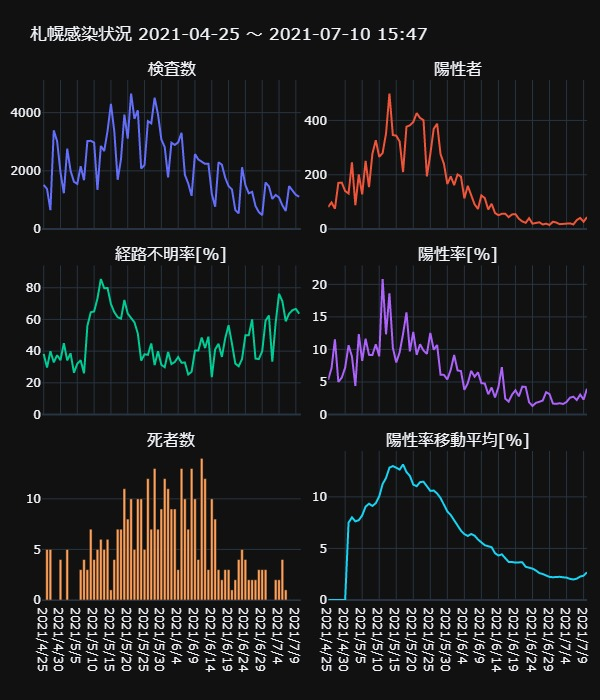
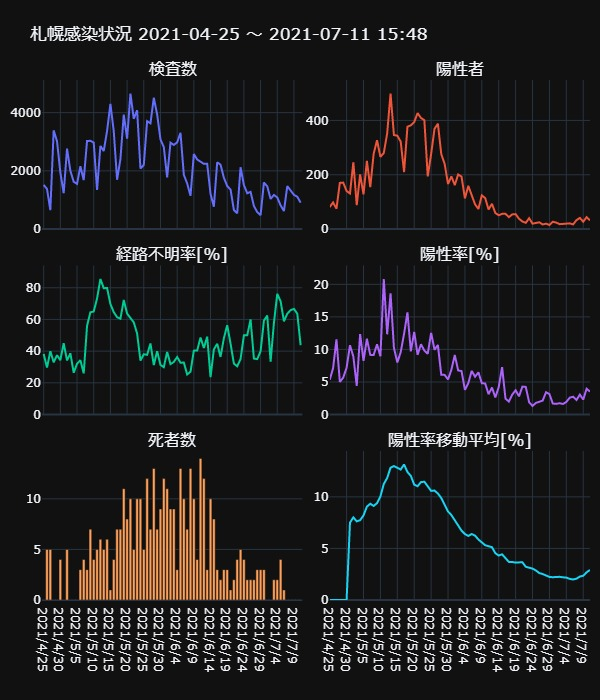
Updated with latest data.

diff --git a/docs/_includes/sapporo.html b/docs/_includes/sapporo.html
@@ -1,1 +1,1 @@
-<div>                            <div id="a2844e41-560d-4760-b545-65ac98e0b4fb" class="plotly-graph-div" style="height:700px; width:600px;"></div>            <script type="text/javascript">                                    window.PLOTLYENV=window.PLOTLYENV || {};                                    if (document.getElementById("a2844e41-560d-4760-b545-65ac98e0b4fb")) {                    Plotly.newPlot(                        "a2844e41-560d-4760-b545-65ac98e0b4fb",                        [{"name": "\u691c\u67fb\u6570", "type": "scatter", "x": ["2021/4/25", "2021/4/26", "2021/4/27", "2021/4/28", "2021/4/29", "2021/4/30", "2021/5/1", "2021/5/2", "2021/5/3", "2021/5/4", "2021/5/5", "2021/5/6", "2021/5/7", "2021/5/8", "2021/5/9", "2021/5/10", "2021/5/11", "2021/5/12", "2021/5/13", "2021/5/14", "2021/5/15", "2021/5/16", "2021/5/17", "2021/5/18", "2021/5/19", "2021/5/20", "2021/5/21", "2021/5/22", "2021/5/23", "2021/5/24", "2021/5/25", "2021/5/26", "2021/5/27", "2021/5/28", "2021/5/29", "2021/5/30", "2021/5/31", "2021/6/1", "2021/6/2", "2021/6/3", "2021/6/4", "2021/6/5", "2021/6/6", "2021/6/7", "2021/6/8", "2021/6/9", "2021/6/10", "2021/6/11", "2021/6/12", "2021/6/13", "2021/6/14", "2021/6/15", "2021/6/16", "2021/6/17", "2021/6/18", "2021/6/19", "2021/6/20", "2021/6/21", "2021/6/22", "2021/6/23", "2021/6/24", "2021/6/25", "2021/6/26", "2021/6/27", "2021/6/28", "2021/6/29", "2021/6/30", "2021/7/1", "2021/7/2", "2021/7/3", "2021/7/4", "2021/7/5", "2021/7/6", "2021/7/7", "2021/7/8", "2021/7/9", "2021/7/10"], "xaxis": "x", "y": [1517, 1377, 649, 3391, 3018, 1946, 1231, 2764, 2001, 1626, 1553, 2157, 1680, 3028, 3031, 2972, 1345, 2856, 2680, 3372, 4302, 3365, 1694, 2402, 3933, 3105, 4656, 3789, 4080, 2080, 2201, 3708, 3632, 4511, 3943, 3079, 2818, 1773, 2967, 2891, 2978, 3307, 1863, 1567, 1142, 2577, 2391, 2307, 2240, 2244, 1208, 768, 2295, 2212, 1763, 1476, 1360, 653, 542, 2124, 1513, 1229, 1278, 793, 583, 478, 1599, 1467, 1035, 1172, 1086, 813, 621, 1476, 1340, 1175, 1110], "yaxis": "y"}, {"name": "\u967d\u6027\u8005", "type": "scatter", "x": ["2021/4/25", "2021/4/26", "2021/4/27", "2021/4/28", "2021/4/29", "2021/4/30", "2021/5/1", "2021/5/2", "2021/5/3", "2021/5/4", "2021/5/5", "2021/5/6", "2021/5/7", "2021/5/8", "2021/5/9", "2021/5/10", "2021/5/11", "2021/5/12", "2021/5/13", "2021/5/14", "2021/5/15", "2021/5/16", "2021/5/17", "2021/5/18", "2021/5/19", "2021/5/20", "2021/5/21", "2021/5/22", "2021/5/23", "2021/5/24", "2021/5/25", "2021/5/26", "2021/5/27", "2021/5/28", "2021/5/29", "2021/5/30", "2021/5/31", "2021/6/1", "2021/6/2", "2021/6/3", "2021/6/4", "2021/6/5", "2021/6/6", "2021/6/7", "2021/6/8", "2021/6/9", "2021/6/10", "2021/6/11", "2021/6/12", "2021/6/13", "2021/6/14", "2021/6/15", "2021/6/16", "2021/6/17", "2021/6/18", "2021/6/19", "2021/6/20", "2021/6/21", "2021/6/22", "2021/6/23", "2021/6/24", "2021/6/25", "2021/6/26", "2021/6/27", "2021/6/28", "2021/6/29", "2021/6/30", "2021/7/1", "2021/7/2", "2021/7/3", "2021/7/4", "2021/7/5", "2021/7/6", "2021/7/7", "2021/7/8", "2021/7/9", "2021/7/10"], "xaxis": "x2", "y": [81, 98, 75, 170, 171, 140, 131, 246, 88, 201, 128, 251, 154, 277, 327, 266, 280, 352, 499, 346, 344, 322, 210, 377, 382, 394, 427, 409, 401, 194, 276, 369, 388, 276, 240, 166, 194, 162, 201, 193, 113, 159, 125, 91, 74, 124, 114, 72, 93, 59, 51, 56, 56, 44, 54, 55, 38, 28, 23, 40, 20, 22, 25, 17, 20, 15, 27, 24, 18, 19, 21, 21, 17, 33, 41, 27, 44], "yaxis": "y2"}, {"name": "\u7d4c\u8def\u4e0d\u660e\u7387[%]", "type": "scatter", "x": ["2021/4/25", "2021/4/26", "2021/4/27", "2021/4/28", "2021/4/29", "2021/4/30", "2021/5/1", "2021/5/2", "2021/5/3", "2021/5/4", "2021/5/5", "2021/5/6", "2021/5/7", "2021/5/8", "2021/5/9", "2021/5/10", "2021/5/11", "2021/5/12", "2021/5/13", "2021/5/14", "2021/5/15", "2021/5/16", "2021/5/17", "2021/5/18", "2021/5/19", "2021/5/20", "2021/5/21", "2021/5/22", "2021/5/23", "2021/5/24", "2021/5/25", "2021/5/26", "2021/5/27", "2021/5/28", "2021/5/29", "2021/5/30", "2021/5/31", "2021/6/1", "2021/6/2", "2021/6/3", "2021/6/4", "2021/6/5", "2021/6/6", "2021/6/7", "2021/6/8", "2021/6/9", "2021/6/10", "2021/6/11", "2021/6/12", "2021/6/13", "2021/6/14", "2021/6/15", "2021/6/16", "2021/6/17", "2021/6/18", "2021/6/19", "2021/6/20", "2021/6/21", "2021/6/22", "2021/6/23", "2021/6/24", "2021/6/25", "2021/6/26", "2021/6/27", "2021/6/28", "2021/6/29", "2021/6/30", "2021/7/1", "2021/7/2", "2021/7/3", "2021/7/4", "2021/7/5", "2021/7/6", "2021/7/7", "2021/7/8", "2021/7/9", "2021/7/10"], "xaxis": "x3", "y": [38.2716049382716, 29.591836734693878, 40.0, 32.94117647058823, 37.42690058479532, 34.285714285714285, 45.038167938931295, 34.146341463414636, 38.63636363636363, 26.368159203980102, 32.03125, 34.26294820717131, 25.97402597402597, 55.95667870036101, 64.52599388379205, 65.0375939849624, 73.21428571428571, 85.51136363636364, 79.75951903807615, 79.76878612716763, 69.76744186046511, 64.59627329192547, 61.42857142857143, 60.47745358090185, 72.25130890052355, 63.70558375634518, 60.88992974238876, 58.19070904645477, 51.12219451371571, 34.02061855670103, 38.04347826086957, 37.669376693766935, 44.84536082474227, 31.15942028985507, 40.0, 31.32530120481928, 29.896907216494846, 39.50617283950617, 31.8407960199005, 33.160621761658035, 36.283185840707965, 32.70440251572327, 32.800000000000004, 25.274725274725274, 27.027027027027028, 40.32258064516129, 40.35087719298245, 48.61111111111111, 41.935483870967744, 49.152542372881356, 23.52941176470588, 41.07142857142857, 44.642857142857146, 36.36363636363637, 48.148148148148145, 56.36363636363636, 44.73684210526316, 32.142857142857146, 30.434782608695656, 35.0, 50.0, 50.0, 60.0, 35.294117647058826, 35.0, 40.0, 59.25925925925925, 62.5, 33.33333333333333, 57.89473684210527, 76.19047619047619, 71.42857142857143, 58.82352941176471, 63.63636363636363, 65.85365853658537, 66.66666666666666, 63.63636363636363], "yaxis": "y3"}, {"name": "\u967d\u6027\u7387[%]", "type": "scatter", "x": ["2021/4/25", "2021/4/26", "2021/4/27", "2021/4/28", "2021/4/29", "2021/4/30", "2021/5/1", "2021/5/2", "2021/5/3", "2021/5/4", "2021/5/5", "2021/5/6", "2021/5/7", "2021/5/8", "2021/5/9", "2021/5/10", "2021/5/11", "2021/5/12", "2021/5/13", "2021/5/14", "2021/5/15", "2021/5/16", "2021/5/17", "2021/5/18", "2021/5/19", "2021/5/20", "2021/5/21", "2021/5/22", "2021/5/23", "2021/5/24", "2021/5/25", "2021/5/26", "2021/5/27", "2021/5/28", "2021/5/29", "2021/5/30", "2021/5/31", "2021/6/1", "2021/6/2", "2021/6/3", "2021/6/4", "2021/6/5", "2021/6/6", "2021/6/7", "2021/6/8", "2021/6/9", "2021/6/10", "2021/6/11", "2021/6/12", "2021/6/13", "2021/6/14", "2021/6/15", "2021/6/16", "2021/6/17", "2021/6/18", "2021/6/19", "2021/6/20", "2021/6/21", "2021/6/22", "2021/6/23", "2021/6/24", "2021/6/25", "2021/6/26", "2021/6/27", "2021/6/28", "2021/6/29", "2021/6/30", "2021/7/1", "2021/7/2", "2021/7/3", "2021/7/4", "2021/7/5", "2021/7/6", "2021/7/7", "2021/7/8", "2021/7/9", "2021/7/10"], "xaxis": "x4", "y": [5.339485827290705, 7.116920842411038, 11.556240369799692, 5.013270421704512, 5.666003976143141, 7.194244604316546, 10.641754670999187, 8.90014471780029, 4.397801099450275, 12.361623616236162, 8.24211204121056, 11.636532220676866, 9.166666666666666, 9.147952443857331, 10.788518640712635, 8.950201884253028, 20.817843866171003, 12.324929971988796, 18.619402985074625, 10.26097271648873, 7.996280799628081, 9.569093610698365, 12.396694214876034, 15.695253955037469, 9.712687515891178, 12.689210950080515, 9.170962199312713, 10.794404856162576, 9.82843137254902, 9.326923076923077, 12.539754656974104, 9.951456310679612, 10.682819383259911, 6.1183772999334956, 6.086735987826528, 5.391360831438779, 6.88431511710433, 9.137055837563452, 6.774519716885743, 6.675890695261155, 3.794492948287441, 4.807983066223163, 6.709608158883522, 5.8072750478621575, 6.47985989492119, 4.811796662786186, 4.767879548306149, 3.1209362808842656, 4.151785714285714, 2.6292335115864525, 4.2218543046357615, 7.291666666666667, 2.440087145969499, 1.9891500904159132, 3.0629608621667614, 3.7262872628726287, 2.794117647058824, 4.287901990811639, 4.243542435424354, 1.8832391713747645, 1.3218770654329148, 1.790073230268511, 1.9561815336463224, 2.1437578814627996, 3.430531732418525, 3.1380753138075312, 1.6885553470919326, 1.6359918200409, 1.7391304347826086, 1.621160409556314, 1.9337016574585635, 2.5830258302583027, 2.737520128824477, 2.2357723577235773, 3.0597014925373136, 2.297872340425532, 3.963963963963964], "yaxis": "y4"}, {"name": "\u6b7b\u8005\u6570", "type": "bar", "x": ["2021/4/25", "2021/4/26", "2021/4/27", "2021/4/28", "2021/4/29", "2021/4/30", "2021/5/1", "2021/5/2", "2021/5/3", "2021/5/4", "2021/5/5", "2021/5/6", "2021/5/7", "2021/5/8", "2021/5/9", "2021/5/10", "2021/5/11", "2021/5/12", "2021/5/13", "2021/5/14", "2021/5/15", "2021/5/16", "2021/5/17", "2021/5/18", "2021/5/19", "2021/5/20", "2021/5/21", "2021/5/22", "2021/5/23", "2021/5/24", "2021/5/25", "2021/5/26", "2021/5/27", "2021/5/28", "2021/5/29", "2021/5/30", "2021/5/31", "2021/6/1", "2021/6/2", "2021/6/3", "2021/6/4", "2021/6/5", "2021/6/6", "2021/6/7", "2021/6/8", "2021/6/9", "2021/6/10", "2021/6/11", "2021/6/12", "2021/6/13", "2021/6/14", "2021/6/15", "2021/6/16", "2021/6/17", "2021/6/18", "2021/6/19", "2021/6/20", "2021/6/21", "2021/6/22", "2021/6/23", "2021/6/24", "2021/6/25", "2021/6/26", "2021/6/27", "2021/6/28", "2021/6/29", "2021/6/30", "2021/7/1", "2021/7/2", "2021/7/3", "2021/7/4", "2021/7/5", "2021/7/6", "2021/7/7", "2021/7/8", "2021/7/9", "2021/7/10"], "xaxis": "x5", "y": [0, 5, 5, 0, 0, 4, 0, 5, 0, 0, 0, 3, 4, 3, 7, 4, 5, 6, 5, 6, 1, 4, 7, 7, 11, 8, 10, 5, 10, 10, 5, 12, 7, 13, 7, 9, 12, 11, 9, 9, 3, 13, 10, 7, 13, 10, 4, 14, 12, 3, 10, 8, 3, 2, 3, 3, 1, 2, 4, 5, 4, 2, 2, 2, 3, 3, 3, 0, 0, 2, 2, 4, 1, 0, 0, 0, 0], "yaxis": "y5"}, {"name": "\u967d\u6027\u7387\u79fb\u52d5\u5e73\u5747[%]", "type": "scatter", "x": ["2021/4/25", "2021/4/26", "2021/4/27", "2021/4/28", "2021/4/29", "2021/4/30", "2021/5/1", "2021/5/2", "2021/5/3", "2021/5/4", "2021/5/5", "2021/5/6", "2021/5/7", "2021/5/8", "2021/5/9", "2021/5/10", "2021/5/11", "2021/5/12", "2021/5/13", "2021/5/14", "2021/5/15", "2021/5/16", "2021/5/17", "2021/5/18", "2021/5/19", "2021/5/20", "2021/5/21", "2021/5/22", "2021/5/23", "2021/5/24", "2021/5/25", "2021/5/26", "2021/5/27", "2021/5/28", "2021/5/29", "2021/5/30", "2021/5/31", "2021/6/1", "2021/6/2", "2021/6/3", "2021/6/4", "2021/6/5", "2021/6/6", "2021/6/7", "2021/6/8", "2021/6/9", "2021/6/10", "2021/6/11", "2021/6/12", "2021/6/13", "2021/6/14", "2021/6/15", "2021/6/16", "2021/6/17", "2021/6/18", "2021/6/19", "2021/6/20", "2021/6/21", "2021/6/22", "2021/6/23", "2021/6/24", "2021/6/25", "2021/6/26", "2021/6/27", "2021/6/28", "2021/6/29", "2021/6/30", "2021/7/1", "2021/7/2", "2021/7/3", "2021/7/4", "2021/7/5", "2021/7/6", "2021/7/7", "2021/7/8", "2021/7/9", "2021/7/10"], "xaxis": "x6", "y": [0.0, 0.0, 0.0, 0.0, 0.0, 0.0, 7.503988673237832, 8.012654229024914, 7.624208551459091, 7.739263300950015, 8.20052638945088, 9.053458995812841, 9.335233576148571, 9.12183325798545, 9.391600961258641, 10.041943930516178, 11.249975394792585, 11.833235099189475, 12.830788065532012, 12.987117501220878, 12.8225929806167, 12.648389404900376, 13.140745452132233, 12.408946893398872, 12.035769399670638, 11.188599108957195, 11.032883320789193, 11.432615328865548, 11.469663580558498, 11.03112484656522, 10.580339232556168, 10.614449060383087, 10.32782169369443, 9.891738136640255, 9.219214012592248, 8.585346792433644, 8.236402798173822, 7.750302966829444, 7.296454882001749, 6.724036498001926, 6.392053019195346, 6.209374030394867, 6.397695077172687, 6.24383221013809, 5.864232789760624, 5.583843782032115, 5.311270761038544, 5.215048379980947, 5.12130590113274, 4.53839523723316, 4.311906559629389, 4.4278789555930285, 4.0890633103335015, 3.6921019592063242, 3.683819756532395, 3.6230342634733828, 3.646589139969436, 3.6560245237088473, 3.220578204959945, 3.141028494303555, 3.045703776448841, 2.863862686177662, 2.6109904391453327, 2.5180819012030433, 2.395600435718313, 2.237676561201624, 2.2098645863040765, 2.254738122676646, 2.247460580464374, 2.1996004198800874, 2.169592387879482, 2.0485201161423072, 1.991297946859014, 2.0694718055206773, 2.2728589015915936, 2.352679173826297, 2.687365395884533], "yaxis": "y6"}],                        {"annotations": [{"font": {"size": 16}, "showarrow": false, "text": "\u691c\u67fb\u6570", "x": 0.2375, "xanchor": "center", "xref": "paper", "y": 1.0, "yanchor": "bottom", "yref": "paper"}, {"font": {"size": 16}, "showarrow": false, "text": "\u967d\u6027\u8005", "x": 0.7625, "xanchor": "center", "xref": "paper", "y": 1.0, "yanchor": "bottom", "yref": "paper"}, {"font": {"size": 16}, "showarrow": false, "text": "\u7d4c\u8def\u4e0d\u660e\u7387[%]", "x": 0.2375, "xanchor": "center", "xref": "paper", "y": 0.6433333333333333, "yanchor": "bottom", "yref": "paper"}, {"font": {"size": 16}, "showarrow": false, "text": "\u967d\u6027\u7387[%]", "x": 0.7625, "xanchor": "center", "xref": "paper", "y": 0.6433333333333333, "yanchor": "bottom", "yref": "paper"}, {"font": {"size": 16}, "showarrow": false, "text": "\u6b7b\u8005\u6570", "x": 0.2375, "xanchor": "center", "xref": "paper", "y": 0.2866666666666667, "yanchor": "bottom", "yref": "paper"}, {"font": {"size": 16}, "showarrow": false, "text": "\u967d\u6027\u7387\u79fb\u52d5\u5e73\u5747[%]", "x": 0.7625, "xanchor": "center", "xref": "paper", "y": 0.2866666666666667, "yanchor": "bottom", "yref": "paper"}], "height": 700, "margin": {"b": 100, "l": 10, "r": 10, "t": 80}, "showlegend": false, "template": {"data": {"bar": [{"error_x": {"color": "#f2f5fa"}, "error_y": {"color": "#f2f5fa"}, "marker": {"line": {"color": "rgb(17,17,17)", "width": 0.5}}, "type": "bar"}], "barpolar": [{"marker": {"line": {"color": "rgb(17,17,17)", "width": 0.5}}, "type": "barpolar"}], "carpet": [{"aaxis": {"endlinecolor": "#A2B1C6", "gridcolor": "#506784", "linecolor": "#506784", "minorgridcolor": "#506784", "startlinecolor": "#A2B1C6"}, "baxis": {"endlinecolor": "#A2B1C6", "gridcolor": "#506784", "linecolor": "#506784", "minorgridcolor": "#506784", "startlinecolor": "#A2B1C6"}, "type": "carpet"}], "choropleth": [{"colorbar": {"outlinewidth": 0, "ticks": ""}, "type": "choropleth"}], "contour": [{"colorbar": {"outlinewidth": 0, "ticks": ""}, "colorscale": [[0.0, "#0d0887"], [0.1111111111111111, "#46039f"], [0.2222222222222222, "#7201a8"], [0.3333333333333333, "#9c179e"], [0.4444444444444444, "#bd3786"], [0.5555555555555556, "#d8576b"], [0.6666666666666666, "#ed7953"], [0.7777777777777778, "#fb9f3a"], [0.8888888888888888, "#fdca26"], [1.0, "#f0f921"]], "type": "contour"}], "contourcarpet": [{"colorbar": {"outlinewidth": 0, "ticks": ""}, "type": "contourcarpet"}], "heatmap": [{"colorbar": {"outlinewidth": 0, "ticks": ""}, "colorscale": [[0.0, "#0d0887"], [0.1111111111111111, "#46039f"], [0.2222222222222222, "#7201a8"], [0.3333333333333333, "#9c179e"], [0.4444444444444444, "#bd3786"], [0.5555555555555556, "#d8576b"], [0.6666666666666666, "#ed7953"], [0.7777777777777778, "#fb9f3a"], [0.8888888888888888, "#fdca26"], [1.0, "#f0f921"]], "type": "heatmap"}], "heatmapgl": [{"colorbar": {"outlinewidth": 0, "ticks": ""}, "colorscale": [[0.0, "#0d0887"], [0.1111111111111111, "#46039f"], [0.2222222222222222, "#7201a8"], [0.3333333333333333, "#9c179e"], [0.4444444444444444, "#bd3786"], [0.5555555555555556, "#d8576b"], [0.6666666666666666, "#ed7953"], [0.7777777777777778, "#fb9f3a"], [0.8888888888888888, "#fdca26"], [1.0, "#f0f921"]], "type": "heatmapgl"}], "histogram": [{"marker": {"colorbar": {"outlinewidth": 0, "ticks": ""}}, "type": "histogram"}], "histogram2d": [{"colorbar": {"outlinewidth": 0, "ticks": ""}, "colorscale": [[0.0, "#0d0887"], [0.1111111111111111, "#46039f"], [0.2222222222222222, "#7201a8"], [0.3333333333333333, "#9c179e"], [0.4444444444444444, "#bd3786"], [0.5555555555555556, "#d8576b"], [0.6666666666666666, "#ed7953"], [0.7777777777777778, "#fb9f3a"], [0.8888888888888888, "#fdca26"], [1.0, "#f0f921"]], "type": "histogram2d"}], "histogram2dcontour": [{"colorbar": {"outlinewidth": 0, "ticks": ""}, "colorscale": [[0.0, "#0d0887"], [0.1111111111111111, "#46039f"], [0.2222222222222222, "#7201a8"], [0.3333333333333333, "#9c179e"], [0.4444444444444444, "#bd3786"], [0.5555555555555556, "#d8576b"], [0.6666666666666666, "#ed7953"], [0.7777777777777778, "#fb9f3a"], [0.8888888888888888, "#fdca26"], [1.0, "#f0f921"]], "type": "histogram2dcontour"}], "mesh3d": [{"colorbar": {"outlinewidth": 0, "ticks": ""}, "type": "mesh3d"}], "parcoords": [{"line": {"colorbar": {"outlinewidth": 0, "ticks": ""}}, "type": "parcoords"}], "pie": [{"automargin": true, "type": "pie"}], "scatter": [{"marker": {"line": {"color": "#283442"}}, "type": "scatter"}], "scatter3d": [{"line": {"colorbar": {"outlinewidth": 0, "ticks": ""}}, "marker": {"colorbar": {"outlinewidth": 0, "ticks": ""}}, "type": "scatter3d"}], "scattercarpet": [{"marker": {"colorbar": {"outlinewidth": 0, "ticks": ""}}, "type": "scattercarpet"}], "scattergeo": [{"marker": {"colorbar": {"outlinewidth": 0, "ticks": ""}}, "type": "scattergeo"}], "scattergl": [{"marker": {"line": {"color": "#283442"}}, "type": "scattergl"}], "scattermapbox": [{"marker": {"colorbar": {"outlinewidth": 0, "ticks": ""}}, "type": "scattermapbox"}], "scatterpolar": [{"marker": {"colorbar": {"outlinewidth": 0, "ticks": ""}}, "type": "scatterpolar"}], "scatterpolargl": [{"marker": {"colorbar": {"outlinewidth": 0, "ticks": ""}}, "type": "scatterpolargl"}], "scatterternary": [{"marker": {"colorbar": {"outlinewidth": 0, "ticks": ""}}, "type": "scatterternary"}], "surface": [{"colorbar": {"outlinewidth": 0, "ticks": ""}, "colorscale": [[0.0, "#0d0887"], [0.1111111111111111, "#46039f"], [0.2222222222222222, "#7201a8"], [0.3333333333333333, "#9c179e"], [0.4444444444444444, "#bd3786"], [0.5555555555555556, "#d8576b"], [0.6666666666666666, "#ed7953"], [0.7777777777777778, "#fb9f3a"], [0.8888888888888888, "#fdca26"], [1.0, "#f0f921"]], "type": "surface"}], "table": [{"cells": {"fill": {"color": "#506784"}, "line": {"color": "rgb(17,17,17)"}}, "header": {"fill": {"color": "#2a3f5f"}, "line": {"color": "rgb(17,17,17)"}}, "type": "table"}]}, "layout": {"annotationdefaults": {"arrowcolor": "#f2f5fa", "arrowhead": 0, "arrowwidth": 1}, "autotypenumbers": "strict", "coloraxis": {"colorbar": {"outlinewidth": 0, "ticks": ""}}, "colorscale": {"diverging": [[0, "#8e0152"], [0.1, "#c51b7d"], [0.2, "#de77ae"], [0.3, "#f1b6da"], [0.4, "#fde0ef"], [0.5, "#f7f7f7"], [0.6, "#e6f5d0"], [0.7, "#b8e186"], [0.8, "#7fbc41"], [0.9, "#4d9221"], [1, "#276419"]], "sequential": [[0.0, "#0d0887"], [0.1111111111111111, "#46039f"], [0.2222222222222222, "#7201a8"], [0.3333333333333333, "#9c179e"], [0.4444444444444444, "#bd3786"], [0.5555555555555556, "#d8576b"], [0.6666666666666666, "#ed7953"], [0.7777777777777778, "#fb9f3a"], [0.8888888888888888, "#fdca26"], [1.0, "#f0f921"]], "sequentialminus": [[0.0, "#0d0887"], [0.1111111111111111, "#46039f"], [0.2222222222222222, "#7201a8"], [0.3333333333333333, "#9c179e"], [0.4444444444444444, "#bd3786"], [0.5555555555555556, "#d8576b"], [0.6666666666666666, "#ed7953"], [0.7777777777777778, "#fb9f3a"], [0.8888888888888888, "#fdca26"], [1.0, "#f0f921"]]}, "colorway": ["#636efa", "#EF553B", "#00cc96", "#ab63fa", "#FFA15A", "#19d3f3", "#FF6692", "#B6E880", "#FF97FF", "#FECB52"], "font": {"color": "#f2f5fa"}, "geo": {"bgcolor": "rgb(17,17,17)", "lakecolor": "rgb(17,17,17)", "landcolor": "rgb(17,17,17)", "showlakes": true, "showland": true, "subunitcolor": "#506784"}, "hoverlabel": {"align": "left"}, "hovermode": "closest", "mapbox": {"style": "dark"}, "paper_bgcolor": "rgb(17,17,17)", "plot_bgcolor": "rgb(17,17,17)", "polar": {"angularaxis": {"gridcolor": "#506784", "linecolor": "#506784", "ticks": ""}, "bgcolor": "rgb(17,17,17)", "radialaxis": {"gridcolor": "#506784", "linecolor": "#506784", "ticks": ""}}, "scene": {"xaxis": {"backgroundcolor": "rgb(17,17,17)", "gridcolor": "#506784", "gridwidth": 2, "linecolor": "#506784", "showbackground": true, "ticks": "", "zerolinecolor": "#C8D4E3"}, "yaxis": {"backgroundcolor": "rgb(17,17,17)", "gridcolor": "#506784", "gridwidth": 2, "linecolor": "#506784", "showbackground": true, "ticks": "", "zerolinecolor": "#C8D4E3"}, "zaxis": {"backgroundcolor": "rgb(17,17,17)", "gridcolor": "#506784", "gridwidth": 2, "linecolor": "#506784", "showbackground": true, "ticks": "", "zerolinecolor": "#C8D4E3"}}, "shapedefaults": {"line": {"color": "#f2f5fa"}}, "sliderdefaults": {"bgcolor": "#C8D4E3", "bordercolor": "rgb(17,17,17)", "borderwidth": 1, "tickwidth": 0}, "ternary": {"aaxis": {"gridcolor": "#506784", "linecolor": "#506784", "ticks": ""}, "baxis": {"gridcolor": "#506784", "linecolor": "#506784", "ticks": ""}, "bgcolor": "rgb(17,17,17)", "caxis": {"gridcolor": "#506784", "linecolor": "#506784", "ticks": ""}}, "title": {"x": 0.05}, "updatemenudefaults": {"bgcolor": "#506784", "borderwidth": 0}, "xaxis": {"automargin": true, "gridcolor": "#283442", "linecolor": "#506784", "ticks": "", "title": {"standoff": 15}, "zerolinecolor": "#283442", "zerolinewidth": 2}, "yaxis": {"automargin": true, "gridcolor": "#283442", "linecolor": "#506784", "ticks": "", "title": {"standoff": 15}, "zerolinecolor": "#283442", "zerolinewidth": 2}}}, "title": {"text": "\u672d\u5e4c\u611f\u67d3\u72b6\u6cc1 2021-04-25 \uff5e 2021-07-10 15:47"}, "width": 600, "xaxis": {"anchor": "y", "domain": [0.0, 0.475], "matches": "x5", "showticklabels": false}, "xaxis2": {"anchor": "y2", "domain": [0.525, 1.0], "matches": "x6", "showticklabels": false}, "xaxis3": {"anchor": "y3", "domain": [0.0, 0.475], "matches": "x5", "showticklabels": false}, "xaxis4": {"anchor": "y4", "domain": [0.525, 1.0], "matches": "x6", "showticklabels": false}, "xaxis5": {"anchor": "y5", "domain": [0.0, 0.475]}, "xaxis6": {"anchor": "y6", "domain": [0.525, 1.0]}, "yaxis": {"anchor": "x", "domain": [0.7133333333333334, 1.0], "range": [0, 5121.6]}, "yaxis2": {"anchor": "x2", "domain": [0.7133333333333334, 1.0], "range": [0, 548.9000000000001]}, "yaxis3": {"anchor": "x3", "domain": [0.3566666666666667, 0.6433333333333333], "range": [0, 94.06250000000001]}, "yaxis4": {"anchor": "x4", "domain": [0.3566666666666667, 0.6433333333333333], "range": [0, 22.899628252788105]}, "yaxis5": {"anchor": "x5", "domain": [0.0, 0.2866666666666667]}, "yaxis6": {"anchor": "x6", "domain": [0.0, 0.2866666666666667], "range": [0, 14.454819997345457]}},                        {"responsive": true}                    )                };                            </script>        </div>
+<div>                            <div id="7edf079d-85a6-44d9-8ad7-8c5f4fc36f1b" class="plotly-graph-div" style="height:700px; width:600px;"></div>            <script type="text/javascript">                                    window.PLOTLYENV=window.PLOTLYENV || {};                                    if (document.getElementById("7edf079d-85a6-44d9-8ad7-8c5f4fc36f1b")) {                    Plotly.newPlot(                        "7edf079d-85a6-44d9-8ad7-8c5f4fc36f1b",                        [{"name": "\u691c\u67fb\u6570", "type": "scatter", "x": ["2021/4/25", "2021/4/26", "2021/4/27", "2021/4/28", "2021/4/29", "2021/4/30", "2021/5/1", "2021/5/2", "2021/5/3", "2021/5/4", "2021/5/5", "2021/5/6", "2021/5/7", "2021/5/8", "2021/5/9", "2021/5/10", "2021/5/11", "2021/5/12", "2021/5/13", "2021/5/14", "2021/5/15", "2021/5/16", "2021/5/17", "2021/5/18", "2021/5/19", "2021/5/20", "2021/5/21", "2021/5/22", "2021/5/23", "2021/5/24", "2021/5/25", "2021/5/26", "2021/5/27", "2021/5/28", "2021/5/29", "2021/5/30", "2021/5/31", "2021/6/1", "2021/6/2", "2021/6/3", "2021/6/4", "2021/6/5", "2021/6/6", "2021/6/7", "2021/6/8", "2021/6/9", "2021/6/10", "2021/6/11", "2021/6/12", "2021/6/13", "2021/6/14", "2021/6/15", "2021/6/16", "2021/6/17", "2021/6/18", "2021/6/19", "2021/6/20", "2021/6/21", "2021/6/22", "2021/6/23", "2021/6/24", "2021/6/25", "2021/6/26", "2021/6/27", "2021/6/28", "2021/6/29", "2021/6/30", "2021/7/1", "2021/7/2", "2021/7/3", "2021/7/4", "2021/7/5", "2021/7/6", "2021/7/7", "2021/7/8", "2021/7/9", "2021/7/10", "2021/7/11"], "xaxis": "x", "y": [1517, 1377, 649, 3391, 3018, 1946, 1231, 2764, 2001, 1626, 1553, 2157, 1680, 3028, 3031, 2972, 1345, 2856, 2680, 3372, 4302, 3365, 1694, 2402, 3933, 3105, 4656, 3789, 4080, 2080, 2201, 3708, 3632, 4511, 3943, 3079, 2818, 1773, 2967, 2891, 2978, 3307, 1863, 1567, 1142, 2577, 2391, 2307, 2240, 2244, 1208, 768, 2295, 2212, 1763, 1476, 1360, 653, 542, 2124, 1513, 1229, 1278, 793, 583, 478, 1599, 1467, 1035, 1172, 1086, 813, 621, 1476, 1340, 1175, 1110, 909], "yaxis": "y"}, {"name": "\u967d\u6027\u8005", "type": "scatter", "x": ["2021/4/25", "2021/4/26", "2021/4/27", "2021/4/28", "2021/4/29", "2021/4/30", "2021/5/1", "2021/5/2", "2021/5/3", "2021/5/4", "2021/5/5", "2021/5/6", "2021/5/7", "2021/5/8", "2021/5/9", "2021/5/10", "2021/5/11", "2021/5/12", "2021/5/13", "2021/5/14", "2021/5/15", "2021/5/16", "2021/5/17", "2021/5/18", "2021/5/19", "2021/5/20", "2021/5/21", "2021/5/22", "2021/5/23", "2021/5/24", "2021/5/25", "2021/5/26", "2021/5/27", "2021/5/28", "2021/5/29", "2021/5/30", "2021/5/31", "2021/6/1", "2021/6/2", "2021/6/3", "2021/6/4", "2021/6/5", "2021/6/6", "2021/6/7", "2021/6/8", "2021/6/9", "2021/6/10", "2021/6/11", "2021/6/12", "2021/6/13", "2021/6/14", "2021/6/15", "2021/6/16", "2021/6/17", "2021/6/18", "2021/6/19", "2021/6/20", "2021/6/21", "2021/6/22", "2021/6/23", "2021/6/24", "2021/6/25", "2021/6/26", "2021/6/27", "2021/6/28", "2021/6/29", "2021/6/30", "2021/7/1", "2021/7/2", "2021/7/3", "2021/7/4", "2021/7/5", "2021/7/6", "2021/7/7", "2021/7/8", "2021/7/9", "2021/7/10", "2021/7/11"], "xaxis": "x2", "y": [81, 98, 75, 170, 171, 140, 131, 246, 88, 201, 128, 251, 154, 277, 327, 266, 280, 352, 499, 346, 344, 322, 210, 377, 382, 394, 427, 409, 401, 194, 276, 369, 388, 276, 240, 166, 194, 162, 201, 193, 113, 159, 125, 91, 74, 124, 114, 72, 93, 59, 51, 56, 56, 44, 54, 55, 38, 28, 23, 40, 20, 22, 25, 17, 20, 15, 27, 24, 18, 19, 21, 21, 17, 33, 41, 27, 44, 32], "yaxis": "y2"}, {"name": "\u7d4c\u8def\u4e0d\u660e\u7387[%]", "type": "scatter", "x": ["2021/4/25", "2021/4/26", "2021/4/27", "2021/4/28", "2021/4/29", "2021/4/30", "2021/5/1", "2021/5/2", "2021/5/3", "2021/5/4", "2021/5/5", "2021/5/6", "2021/5/7", "2021/5/8", "2021/5/9", "2021/5/10", "2021/5/11", "2021/5/12", "2021/5/13", "2021/5/14", "2021/5/15", "2021/5/16", "2021/5/17", "2021/5/18", "2021/5/19", "2021/5/20", "2021/5/21", "2021/5/22", "2021/5/23", "2021/5/24", "2021/5/25", "2021/5/26", "2021/5/27", "2021/5/28", "2021/5/29", "2021/5/30", "2021/5/31", "2021/6/1", "2021/6/2", "2021/6/3", "2021/6/4", "2021/6/5", "2021/6/6", "2021/6/7", "2021/6/8", "2021/6/9", "2021/6/10", "2021/6/11", "2021/6/12", "2021/6/13", "2021/6/14", "2021/6/15", "2021/6/16", "2021/6/17", "2021/6/18", "2021/6/19", "2021/6/20", "2021/6/21", "2021/6/22", "2021/6/23", "2021/6/24", "2021/6/25", "2021/6/26", "2021/6/27", "2021/6/28", "2021/6/29", "2021/6/30", "2021/7/1", "2021/7/2", "2021/7/3", "2021/7/4", "2021/7/5", "2021/7/6", "2021/7/7", "2021/7/8", "2021/7/9", "2021/7/10", "2021/7/11"], "xaxis": "x3", "y": [38.2716049382716, 29.591836734693878, 40.0, 32.94117647058823, 37.42690058479532, 34.285714285714285, 45.038167938931295, 34.146341463414636, 38.63636363636363, 26.368159203980102, 32.03125, 34.26294820717131, 25.97402597402597, 55.95667870036101, 64.52599388379205, 65.0375939849624, 73.21428571428571, 85.51136363636364, 79.75951903807615, 79.76878612716763, 69.76744186046511, 64.59627329192547, 61.42857142857143, 60.47745358090185, 72.25130890052355, 63.70558375634518, 60.88992974238876, 58.19070904645477, 51.12219451371571, 34.02061855670103, 38.04347826086957, 37.669376693766935, 44.84536082474227, 31.15942028985507, 40.0, 31.32530120481928, 29.896907216494846, 39.50617283950617, 31.8407960199005, 33.160621761658035, 36.283185840707965, 32.70440251572327, 32.800000000000004, 25.274725274725274, 27.027027027027028, 40.32258064516129, 40.35087719298245, 48.61111111111111, 41.935483870967744, 49.152542372881356, 23.52941176470588, 41.07142857142857, 44.642857142857146, 36.36363636363637, 48.148148148148145, 56.36363636363636, 44.73684210526316, 32.142857142857146, 30.434782608695656, 35.0, 50.0, 50.0, 60.0, 35.294117647058826, 35.0, 40.0, 59.25925925925925, 62.5, 33.33333333333333, 57.89473684210527, 76.19047619047619, 71.42857142857143, 58.82352941176471, 63.63636363636363, 65.85365853658537, 66.66666666666666, 63.63636363636363, 43.75], "yaxis": "y3"}, {"name": "\u967d\u6027\u7387[%]", "type": "scatter", "x": ["2021/4/25", "2021/4/26", "2021/4/27", "2021/4/28", "2021/4/29", "2021/4/30", "2021/5/1", "2021/5/2", "2021/5/3", "2021/5/4", "2021/5/5", "2021/5/6", "2021/5/7", "2021/5/8", "2021/5/9", "2021/5/10", "2021/5/11", "2021/5/12", "2021/5/13", "2021/5/14", "2021/5/15", "2021/5/16", "2021/5/17", "2021/5/18", "2021/5/19", "2021/5/20", "2021/5/21", "2021/5/22", "2021/5/23", "2021/5/24", "2021/5/25", "2021/5/26", "2021/5/27", "2021/5/28", "2021/5/29", "2021/5/30", "2021/5/31", "2021/6/1", "2021/6/2", "2021/6/3", "2021/6/4", "2021/6/5", "2021/6/6", "2021/6/7", "2021/6/8", "2021/6/9", "2021/6/10", "2021/6/11", "2021/6/12", "2021/6/13", "2021/6/14", "2021/6/15", "2021/6/16", "2021/6/17", "2021/6/18", "2021/6/19", "2021/6/20", "2021/6/21", "2021/6/22", "2021/6/23", "2021/6/24", "2021/6/25", "2021/6/26", "2021/6/27", "2021/6/28", "2021/6/29", "2021/6/30", "2021/7/1", "2021/7/2", "2021/7/3", "2021/7/4", "2021/7/5", "2021/7/6", "2021/7/7", "2021/7/8", "2021/7/9", "2021/7/10", "2021/7/11"], "xaxis": "x4", "y": [5.339485827290705, 7.116920842411038, 11.556240369799692, 5.013270421704512, 5.666003976143141, 7.194244604316546, 10.641754670999187, 8.90014471780029, 4.397801099450275, 12.361623616236162, 8.24211204121056, 11.636532220676866, 9.166666666666666, 9.147952443857331, 10.788518640712635, 8.950201884253028, 20.817843866171003, 12.324929971988796, 18.619402985074625, 10.26097271648873, 7.996280799628081, 9.569093610698365, 12.396694214876034, 15.695253955037469, 9.712687515891178, 12.689210950080515, 9.170962199312713, 10.794404856162576, 9.82843137254902, 9.326923076923077, 12.539754656974104, 9.951456310679612, 10.682819383259911, 6.1183772999334956, 6.086735987826528, 5.391360831438779, 6.88431511710433, 9.137055837563452, 6.774519716885743, 6.675890695261155, 3.794492948287441, 4.807983066223163, 6.709608158883522, 5.8072750478621575, 6.47985989492119, 4.811796662786186, 4.767879548306149, 3.1209362808842656, 4.151785714285714, 2.6292335115864525, 4.2218543046357615, 7.291666666666667, 2.440087145969499, 1.9891500904159132, 3.0629608621667614, 3.7262872628726287, 2.794117647058824, 4.287901990811639, 4.243542435424354, 1.8832391713747645, 1.3218770654329148, 1.790073230268511, 1.9561815336463224, 2.1437578814627996, 3.430531732418525, 3.1380753138075312, 1.6885553470919326, 1.6359918200409, 1.7391304347826086, 1.621160409556314, 1.9337016574585635, 2.5830258302583027, 2.737520128824477, 2.2357723577235773, 3.0597014925373136, 2.297872340425532, 3.963963963963964, 3.52035203520352], "yaxis": "y4"}, {"name": "\u6b7b\u8005\u6570", "type": "bar", "x": ["2021/4/25", "2021/4/26", "2021/4/27", "2021/4/28", "2021/4/29", "2021/4/30", "2021/5/1", "2021/5/2", "2021/5/3", "2021/5/4", "2021/5/5", "2021/5/6", "2021/5/7", "2021/5/8", "2021/5/9", "2021/5/10", "2021/5/11", "2021/5/12", "2021/5/13", "2021/5/14", "2021/5/15", "2021/5/16", "2021/5/17", "2021/5/18", "2021/5/19", "2021/5/20", "2021/5/21", "2021/5/22", "2021/5/23", "2021/5/24", "2021/5/25", "2021/5/26", "2021/5/27", "2021/5/28", "2021/5/29", "2021/5/30", "2021/5/31", "2021/6/1", "2021/6/2", "2021/6/3", "2021/6/4", "2021/6/5", "2021/6/6", "2021/6/7", "2021/6/8", "2021/6/9", "2021/6/10", "2021/6/11", "2021/6/12", "2021/6/13", "2021/6/14", "2021/6/15", "2021/6/16", "2021/6/17", "2021/6/18", "2021/6/19", "2021/6/20", "2021/6/21", "2021/6/22", "2021/6/23", "2021/6/24", "2021/6/25", "2021/6/26", "2021/6/27", "2021/6/28", "2021/6/29", "2021/6/30", "2021/7/1", "2021/7/2", "2021/7/3", "2021/7/4", "2021/7/5", "2021/7/6", "2021/7/7", "2021/7/8", "2021/7/9", "2021/7/10", "2021/7/11"], "xaxis": "x5", "y": [0, 5, 5, 0, 0, 4, 0, 5, 0, 0, 0, 3, 4, 3, 7, 4, 5, 6, 5, 6, 1, 4, 7, 7, 11, 8, 10, 5, 10, 10, 5, 12, 7, 13, 7, 9, 12, 11, 9, 9, 3, 13, 10, 7, 13, 10, 4, 14, 12, 3, 10, 8, 3, 2, 3, 3, 1, 2, 4, 5, 4, 2, 2, 2, 3, 3, 3, 0, 0, 2, 2, 4, 1, 0, 0, 0, 0, 0], "yaxis": "y5"}, {"name": "\u967d\u6027\u7387\u79fb\u52d5\u5e73\u5747[%]", "type": "scatter", "x": ["2021/4/25", "2021/4/26", "2021/4/27", "2021/4/28", "2021/4/29", "2021/4/30", "2021/5/1", "2021/5/2", "2021/5/3", "2021/5/4", "2021/5/5", "2021/5/6", "2021/5/7", "2021/5/8", "2021/5/9", "2021/5/10", "2021/5/11", "2021/5/12", "2021/5/13", "2021/5/14", "2021/5/15", "2021/5/16", "2021/5/17", "2021/5/18", "2021/5/19", "2021/5/20", "2021/5/21", "2021/5/22", "2021/5/23", "2021/5/24", "2021/5/25", "2021/5/26", "2021/5/27", "2021/5/28", "2021/5/29", "2021/5/30", "2021/5/31", "2021/6/1", "2021/6/2", "2021/6/3", "2021/6/4", "2021/6/5", "2021/6/6", "2021/6/7", "2021/6/8", "2021/6/9", "2021/6/10", "2021/6/11", "2021/6/12", "2021/6/13", "2021/6/14", "2021/6/15", "2021/6/16", "2021/6/17", "2021/6/18", "2021/6/19", "2021/6/20", "2021/6/21", "2021/6/22", "2021/6/23", "2021/6/24", "2021/6/25", "2021/6/26", "2021/6/27", "2021/6/28", "2021/6/29", "2021/6/30", "2021/7/1", "2021/7/2", "2021/7/3", "2021/7/4", "2021/7/5", "2021/7/6", "2021/7/7", "2021/7/8", "2021/7/9", "2021/7/10", "2021/7/11"], "xaxis": "x6", "y": [0.0, 0.0, 0.0, 0.0, 0.0, 0.0, 7.503988673237832, 8.012654229024914, 7.624208551459091, 7.739263300950015, 8.20052638945088, 9.053458995812841, 9.335233576148571, 9.12183325798545, 9.391600961258641, 10.041943930516178, 11.249975394792585, 11.833235099189475, 12.830788065532012, 12.987117501220878, 12.8225929806167, 12.648389404900376, 13.140745452132233, 12.408946893398872, 12.035769399670638, 11.188599108957195, 11.032883320789193, 11.432615328865548, 11.469663580558498, 11.03112484656522, 10.580339232556168, 10.614449060383087, 10.32782169369443, 9.891738136640255, 9.219214012592248, 8.585346792433644, 8.236402798173822, 7.750302966829444, 7.296454882001749, 6.724036498001926, 6.392053019195346, 6.209374030394867, 6.397695077172687, 6.24383221013809, 5.864232789760624, 5.583843782032115, 5.311270761038544, 5.215048379980947, 5.12130590113274, 4.53839523723316, 4.311906559629389, 4.4278789555930285, 4.0890633103335015, 3.6921019592063242, 3.683819756532395, 3.6230342634733828, 3.646589139969436, 3.6560245237088473, 3.220578204959945, 3.141028494303555, 3.045703776448841, 2.863862686177662, 2.6109904391453327, 2.5180819012030433, 2.395600435718313, 2.237676561201624, 2.2098645863040765, 2.254738122676646, 2.247460580464374, 2.1996004198800874, 2.169592387879482, 2.0485201161423072, 1.991297946859014, 2.0694718055206773, 2.2728589015915936, 2.352679173826297, 2.687365395884533, 2.9140297355623836], "yaxis": "y6"}],                        {"annotations": [{"font": {"size": 16}, "showarrow": false, "text": "\u691c\u67fb\u6570", "x": 0.2375, "xanchor": "center", "xref": "paper", "y": 1.0, "yanchor": "bottom", "yref": "paper"}, {"font": {"size": 16}, "showarrow": false, "text": "\u967d\u6027\u8005", "x": 0.7625, "xanchor": "center", "xref": "paper", "y": 1.0, "yanchor": "bottom", "yref": "paper"}, {"font": {"size": 16}, "showarrow": false, "text": "\u7d4c\u8def\u4e0d\u660e\u7387[%]", "x": 0.2375, "xanchor": "center", "xref": "paper", "y": 0.6433333333333333, "yanchor": "bottom", "yref": "paper"}, {"font": {"size": 16}, "showarrow": false, "text": "\u967d\u6027\u7387[%]", "x": 0.7625, "xanchor": "center", "xref": "paper", "y": 0.6433333333333333, "yanchor": "bottom", "yref": "paper"}, {"font": {"size": 16}, "showarrow": false, "text": "\u6b7b\u8005\u6570", "x": 0.2375, "xanchor": "center", "xref": "paper", "y": 0.2866666666666667, "yanchor": "bottom", "yref": "paper"}, {"font": {"size": 16}, "showarrow": false, "text": "\u967d\u6027\u7387\u79fb\u52d5\u5e73\u5747[%]", "x": 0.7625, "xanchor": "center", "xref": "paper", "y": 0.2866666666666667, "yanchor": "bottom", "yref": "paper"}], "height": 700, "margin": {"b": 100, "l": 10, "r": 10, "t": 80}, "showlegend": false, "template": {"data": {"bar": [{"error_x": {"color": "#f2f5fa"}, "error_y": {"color": "#f2f5fa"}, "marker": {"line": {"color": "rgb(17,17,17)", "width": 0.5}}, "type": "bar"}], "barpolar": [{"marker": {"line": {"color": "rgb(17,17,17)", "width": 0.5}}, "type": "barpolar"}], "carpet": [{"aaxis": {"endlinecolor": "#A2B1C6", "gridcolor": "#506784", "linecolor": "#506784", "minorgridcolor": "#506784", "startlinecolor": "#A2B1C6"}, "baxis": {"endlinecolor": "#A2B1C6", "gridcolor": "#506784", "linecolor": "#506784", "minorgridcolor": "#506784", "startlinecolor": "#A2B1C6"}, "type": "carpet"}], "choropleth": [{"colorbar": {"outlinewidth": 0, "ticks": ""}, "type": "choropleth"}], "contour": [{"colorbar": {"outlinewidth": 0, "ticks": ""}, "colorscale": [[0.0, "#0d0887"], [0.1111111111111111, "#46039f"], [0.2222222222222222, "#7201a8"], [0.3333333333333333, "#9c179e"], [0.4444444444444444, "#bd3786"], [0.5555555555555556, "#d8576b"], [0.6666666666666666, "#ed7953"], [0.7777777777777778, "#fb9f3a"], [0.8888888888888888, "#fdca26"], [1.0, "#f0f921"]], "type": "contour"}], "contourcarpet": [{"colorbar": {"outlinewidth": 0, "ticks": ""}, "type": "contourcarpet"}], "heatmap": [{"colorbar": {"outlinewidth": 0, "ticks": ""}, "colorscale": [[0.0, "#0d0887"], [0.1111111111111111, "#46039f"], [0.2222222222222222, "#7201a8"], [0.3333333333333333, "#9c179e"], [0.4444444444444444, "#bd3786"], [0.5555555555555556, "#d8576b"], [0.6666666666666666, "#ed7953"], [0.7777777777777778, "#fb9f3a"], [0.8888888888888888, "#fdca26"], [1.0, "#f0f921"]], "type": "heatmap"}], "heatmapgl": [{"colorbar": {"outlinewidth": 0, "ticks": ""}, "colorscale": [[0.0, "#0d0887"], [0.1111111111111111, "#46039f"], [0.2222222222222222, "#7201a8"], [0.3333333333333333, "#9c179e"], [0.4444444444444444, "#bd3786"], [0.5555555555555556, "#d8576b"], [0.6666666666666666, "#ed7953"], [0.7777777777777778, "#fb9f3a"], [0.8888888888888888, "#fdca26"], [1.0, "#f0f921"]], "type": "heatmapgl"}], "histogram": [{"marker": {"colorbar": {"outlinewidth": 0, "ticks": ""}}, "type": "histogram"}], "histogram2d": [{"colorbar": {"outlinewidth": 0, "ticks": ""}, "colorscale": [[0.0, "#0d0887"], [0.1111111111111111, "#46039f"], [0.2222222222222222, "#7201a8"], [0.3333333333333333, "#9c179e"], [0.4444444444444444, "#bd3786"], [0.5555555555555556, "#d8576b"], [0.6666666666666666, "#ed7953"], [0.7777777777777778, "#fb9f3a"], [0.8888888888888888, "#fdca26"], [1.0, "#f0f921"]], "type": "histogram2d"}], "histogram2dcontour": [{"colorbar": {"outlinewidth": 0, "ticks": ""}, "colorscale": [[0.0, "#0d0887"], [0.1111111111111111, "#46039f"], [0.2222222222222222, "#7201a8"], [0.3333333333333333, "#9c179e"], [0.4444444444444444, "#bd3786"], [0.5555555555555556, "#d8576b"], [0.6666666666666666, "#ed7953"], [0.7777777777777778, "#fb9f3a"], [0.8888888888888888, "#fdca26"], [1.0, "#f0f921"]], "type": "histogram2dcontour"}], "mesh3d": [{"colorbar": {"outlinewidth": 0, "ticks": ""}, "type": "mesh3d"}], "parcoords": [{"line": {"colorbar": {"outlinewidth": 0, "ticks": ""}}, "type": "parcoords"}], "pie": [{"automargin": true, "type": "pie"}], "scatter": [{"marker": {"line": {"color": "#283442"}}, "type": "scatter"}], "scatter3d": [{"line": {"colorbar": {"outlinewidth": 0, "ticks": ""}}, "marker": {"colorbar": {"outlinewidth": 0, "ticks": ""}}, "type": "scatter3d"}], "scattercarpet": [{"marker": {"colorbar": {"outlinewidth": 0, "ticks": ""}}, "type": "scattercarpet"}], "scattergeo": [{"marker": {"colorbar": {"outlinewidth": 0, "ticks": ""}}, "type": "scattergeo"}], "scattergl": [{"marker": {"line": {"color": "#283442"}}, "type": "scattergl"}], "scattermapbox": [{"marker": {"colorbar": {"outlinewidth": 0, "ticks": ""}}, "type": "scattermapbox"}], "scatterpolar": [{"marker": {"colorbar": {"outlinewidth": 0, "ticks": ""}}, "type": "scatterpolar"}], "scatterpolargl": [{"marker": {"colorbar": {"outlinewidth": 0, "ticks": ""}}, "type": "scatterpolargl"}], "scatterternary": [{"marker": {"colorbar": {"outlinewidth": 0, "ticks": ""}}, "type": "scatterternary"}], "surface": [{"colorbar": {"outlinewidth": 0, "ticks": ""}, "colorscale": [[0.0, "#0d0887"], [0.1111111111111111, "#46039f"], [0.2222222222222222, "#7201a8"], [0.3333333333333333, "#9c179e"], [0.4444444444444444, "#bd3786"], [0.5555555555555556, "#d8576b"], [0.6666666666666666, "#ed7953"], [0.7777777777777778, "#fb9f3a"], [0.8888888888888888, "#fdca26"], [1.0, "#f0f921"]], "type": "surface"}], "table": [{"cells": {"fill": {"color": "#506784"}, "line": {"color": "rgb(17,17,17)"}}, "header": {"fill": {"color": "#2a3f5f"}, "line": {"color": "rgb(17,17,17)"}}, "type": "table"}]}, "layout": {"annotationdefaults": {"arrowcolor": "#f2f5fa", "arrowhead": 0, "arrowwidth": 1}, "autotypenumbers": "strict", "coloraxis": {"colorbar": {"outlinewidth": 0, "ticks": ""}}, "colorscale": {"diverging": [[0, "#8e0152"], [0.1, "#c51b7d"], [0.2, "#de77ae"], [0.3, "#f1b6da"], [0.4, "#fde0ef"], [0.5, "#f7f7f7"], [0.6, "#e6f5d0"], [0.7, "#b8e186"], [0.8, "#7fbc41"], [0.9, "#4d9221"], [1, "#276419"]], "sequential": [[0.0, "#0d0887"], [0.1111111111111111, "#46039f"], [0.2222222222222222, "#7201a8"], [0.3333333333333333, "#9c179e"], [0.4444444444444444, "#bd3786"], [0.5555555555555556, "#d8576b"], [0.6666666666666666, "#ed7953"], [0.7777777777777778, "#fb9f3a"], [0.8888888888888888, "#fdca26"], [1.0, "#f0f921"]], "sequentialminus": [[0.0, "#0d0887"], [0.1111111111111111, "#46039f"], [0.2222222222222222, "#7201a8"], [0.3333333333333333, "#9c179e"], [0.4444444444444444, "#bd3786"], [0.5555555555555556, "#d8576b"], [0.6666666666666666, "#ed7953"], [0.7777777777777778, "#fb9f3a"], [0.8888888888888888, "#fdca26"], [1.0, "#f0f921"]]}, "colorway": ["#636efa", "#EF553B", "#00cc96", "#ab63fa", "#FFA15A", "#19d3f3", "#FF6692", "#B6E880", "#FF97FF", "#FECB52"], "font": {"color": "#f2f5fa"}, "geo": {"bgcolor": "rgb(17,17,17)", "lakecolor": "rgb(17,17,17)", "landcolor": "rgb(17,17,17)", "showlakes": true, "showland": true, "subunitcolor": "#506784"}, "hoverlabel": {"align": "left"}, "hovermode": "closest", "mapbox": {"style": "dark"}, "paper_bgcolor": "rgb(17,17,17)", "plot_bgcolor": "rgb(17,17,17)", "polar": {"angularaxis": {"gridcolor": "#506784", "linecolor": "#506784", "ticks": ""}, "bgcolor": "rgb(17,17,17)", "radialaxis": {"gridcolor": "#506784", "linecolor": "#506784", "ticks": ""}}, "scene": {"xaxis": {"backgroundcolor": "rgb(17,17,17)", "gridcolor": "#506784", "gridwidth": 2, "linecolor": "#506784", "showbackground": true, "ticks": "", "zerolinecolor": "#C8D4E3"}, "yaxis": {"backgroundcolor": "rgb(17,17,17)", "gridcolor": "#506784", "gridwidth": 2, "linecolor": "#506784", "showbackground": true, "ticks": "", "zerolinecolor": "#C8D4E3"}, "zaxis": {"backgroundcolor": "rgb(17,17,17)", "gridcolor": "#506784", "gridwidth": 2, "linecolor": "#506784", "showbackground": true, "ticks": "", "zerolinecolor": "#C8D4E3"}}, "shapedefaults": {"line": {"color": "#f2f5fa"}}, "sliderdefaults": {"bgcolor": "#C8D4E3", "bordercolor": "rgb(17,17,17)", "borderwidth": 1, "tickwidth": 0}, "ternary": {"aaxis": {"gridcolor": "#506784", "linecolor": "#506784", "ticks": ""}, "baxis": {"gridcolor": "#506784", "linecolor": "#506784", "ticks": ""}, "bgcolor": "rgb(17,17,17)", "caxis": {"gridcolor": "#506784", "linecolor": "#506784", "ticks": ""}}, "title": {"x": 0.05}, "updatemenudefaults": {"bgcolor": "#506784", "borderwidth": 0}, "xaxis": {"automargin": true, "gridcolor": "#283442", "linecolor": "#506784", "ticks": "", "title": {"standoff": 15}, "zerolinecolor": "#283442", "zerolinewidth": 2}, "yaxis": {"automargin": true, "gridcolor": "#283442", "linecolor": "#506784", "ticks": "", "title": {"standoff": 15}, "zerolinecolor": "#283442", "zerolinewidth": 2}}}, "title": {"text": "\u672d\u5e4c\u611f\u67d3\u72b6\u6cc1 2021-04-25 \uff5e 2021-07-11 15:48"}, "width": 600, "xaxis": {"anchor": "y", "domain": [0.0, 0.475], "matches": "x5", "showticklabels": false}, "xaxis2": {"anchor": "y2", "domain": [0.525, 1.0], "matches": "x6", "showticklabels": false}, "xaxis3": {"anchor": "y3", "domain": [0.0, 0.475], "matches": "x5", "showticklabels": false}, "xaxis4": {"anchor": "y4", "domain": [0.525, 1.0], "matches": "x6", "showticklabels": false}, "xaxis5": {"anchor": "y5", "domain": [0.0, 0.475]}, "xaxis6": {"anchor": "y6", "domain": [0.525, 1.0]}, "yaxis": {"anchor": "x", "domain": [0.7133333333333334, 1.0], "range": [0, 5121.6]}, "yaxis2": {"anchor": "x2", "domain": [0.7133333333333334, 1.0], "range": [0, 548.9000000000001]}, "yaxis3": {"anchor": "x3", "domain": [0.3566666666666667, 0.6433333333333333], "range": [0, 94.06250000000001]}, "yaxis4": {"anchor": "x4", "domain": [0.3566666666666667, 0.6433333333333333], "range": [0, 22.899628252788105]}, "yaxis5": {"anchor": "x5", "domain": [0.0, 0.2866666666666667]}, "yaxis6": {"anchor": "x6", "domain": [0.0, 0.2866666666666667], "range": [0, 14.454819997345457]}},                        {"responsive": true}                    )                };                            </script>        </div>
